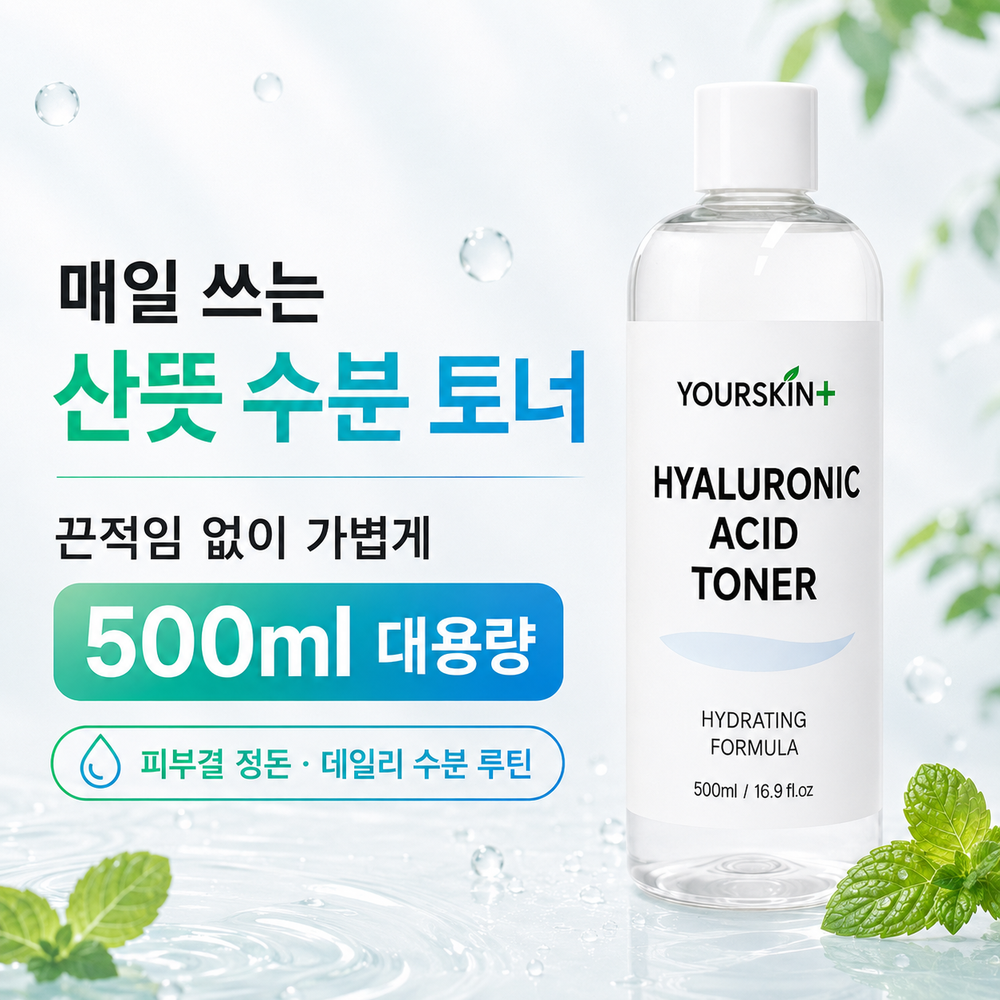
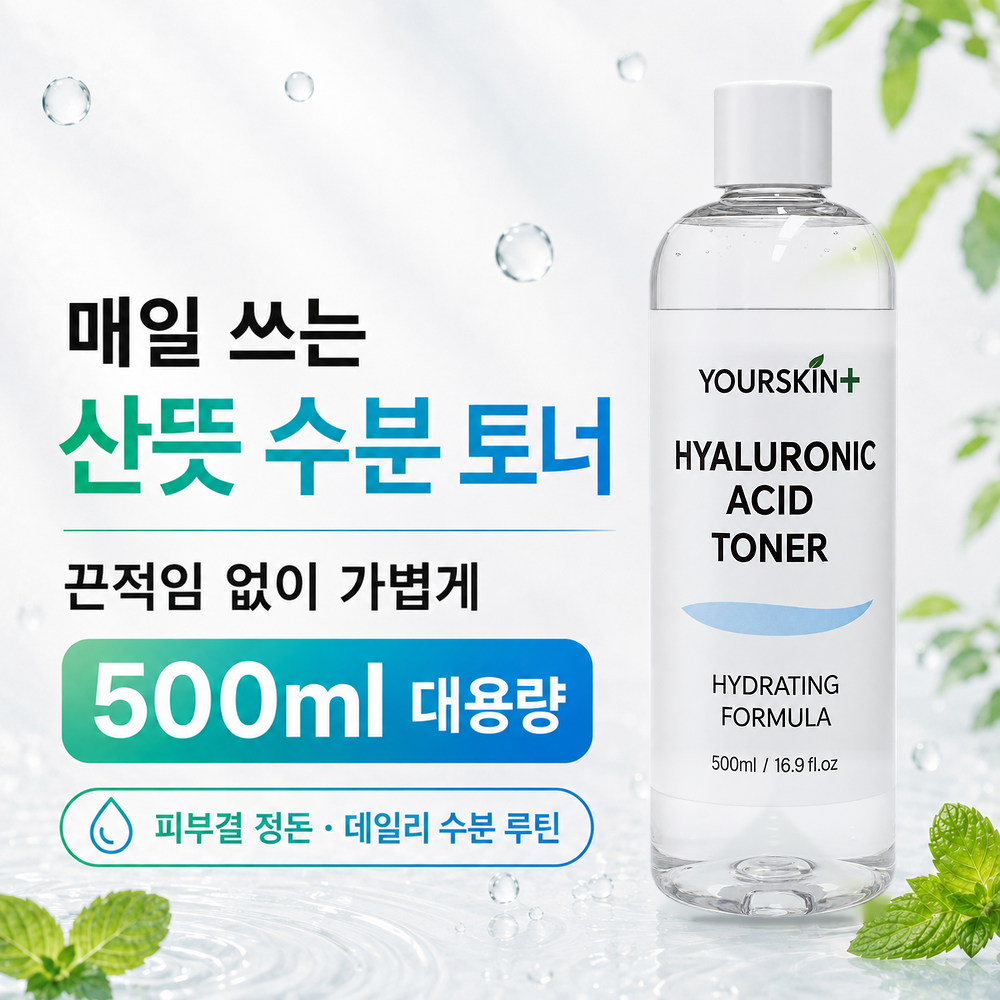
Mark toner V5 live on Coupang

diff --git a/src/data/marketingOps.ts b/src/data/marketingOps.ts
@@ -21,10 +21,10 @@ export const productOpsStatuses: ProductOpsStatus[] = [
     slug: 'hyaluronic-toner',
     priority: 'focus',
     campaignRole: '수분 루틴 진입 상품',
-    detailStatus: 'V5 동일 true-alpha 제품·접지 보정 대표 6장 검토 후보 + V2 상세 14컷 유지',
-    assetStatus: 'V5 사이트 검토 후보 · V2 쿠팡 현재 적용',
+    detailStatus: 'V5 동일 true-alpha 제품·접지 보정 대표 6장 + 기존 상세 14컷 쿠팡 현재 적용',
+    assetStatus: 'V5 사이트/쿠팡 승인완료 · CDN 픽셀 검증 6/6',
     claimRisk: 'medium',
-    nextAction: 'V5 대표 6장 연속 비교 승인 후 쿠팡 반영 여부 결정',
+    nextAction: '구매자 PDP 캐시와 썸네일 노출 상태 확인',
     workspaceUrl: '/marketing/hyaluronic-toner-version-compare/',
     salesNote: '최근 판매량 1위. 유입 상품으로 먼저 밀기 좋음',
   },
@@ -212,9 +212,31 @@ export type ProductVersion = {
 export const productVersions: Record<string, ProductVersion[]> = {
   'hyaluronic-toner': [
     {
-      id: 'v2',
-      label: 'V2 · GPT 실사 메인',
+      id: 'v5',
+      label: 'V5 · 동일 투명 제품 6장',
       status: 'live',
+      date: '2026-08-26',
+      summary: '쿠팡 승인완료 V5입니다. 동일 true-alpha 제품의 외곽 흰 matte를 제거하고 투명 PET의 배경 투과와 접지를 보정한 대표 6장을 적용했습니다. 새 Coupang CDN 6장이 로컬 V5와 decoded RGB 픽셀 단위로 일치하며 기존 상세 14컷은 경로와 순서를 그대로 보존했습니다.',
+      mainImages: Array.from({ length: 6 }, (_, i) => '/coupang/images/hyaluronic-acid-toner/versions/v5/representative/' + String(i + 1).padStart(2, '0') + '.png'),
+      detailImages: [
+        ...Array.from({ length: 5 }, (_, i) => '/coupang/images/hyaluronic-acid-toner/versions/v2/detail/' + String(i + 1).padStart(2, '0') + '.png'),
+        '/coupang/images/hyaluronic-acid-toner/versions/v2/detail/05a-aha-pha-20260821.png',
+        ...Array.from({ length: 8 }, (_, i) => '/coupang/images/hyaluronic-acid-toner/versions/v2/detail/' + String(i + 6).padStart(2, '0') + '.png'),
+      ],
+      links: [
+        { label: '토너 V5 비교 페이지 열기', href: '/marketing/hyaluronic-toner-version-compare/' },
+        { label: 'V5 첫 대표 이미지 열기', href: '/coupang/images/hyaluronic-acid-toner/versions/v5/representative/01.png' },
+      ],
+      metrics: [
+        { label: '대표', value: '6' },
+        { label: '상세', value: '14 유지' },
+        { label: '상태', value: '쿠팡 승인완료 · CDN 픽셀 검증 6/6' },
+      ],
+    },
+    {
+      id: 'v2',
+      label: 'V2 · 이전 쿠팡 적용본',
+      status: 'archive',
       date: '2026-08-26',
       summary: '쿠팡 승인완료 V2입니다. 대표 01은 실제 제품 원본을 첨부한 GPT Images 실사 재생성본이며 상단 출렁임을 제거한 단일 수위선, 제품 bbox 253×848px, 기존 신선 제품 마크를 유지했습니다. 쿠팡 CDN 1000×1000 RGB 픽셀 일치를 확인했고 나머지 대표 5장과 상세 14컷은 보존했습니다.',
       mainImages: Array.from({ length: 6 }, (_, i) => '/coupang/images/hyaluronic-acid-toner/versions/v2/representative/' + String(i + 1).padStart(2, '0') + '.png'),
@@ -236,7 +258,7 @@ export const productVersions: Record<string, ProductVersion[]> = {
     {
       id: 'v1',
       label: 'V1',
-      status: 'live',
+      status: 'archive',
       date: '2026-06-07',
       summary: '쿠팡 반영용 V1 정리본입니다. 대표 6장과 상세 13컷을 사이트 현재 적용 버전으로 사용합니다. 공식 판매 안내 컷을 12번으로 이동하고, 첨부 표시정보/전성분 표를 13번에 배치했습니다.',
       mainImages: Array.from({ length: 6 }, (_, i) => '/coupang/images/hyaluronic-acid-toner/versions/v1/representative/' + String(i + 1).padStart(2, '0') + '.png'),
